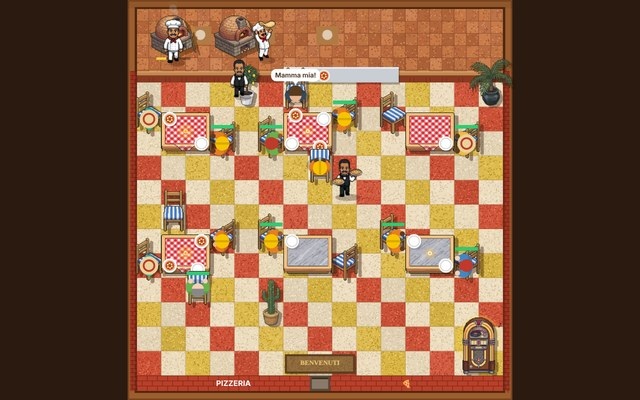
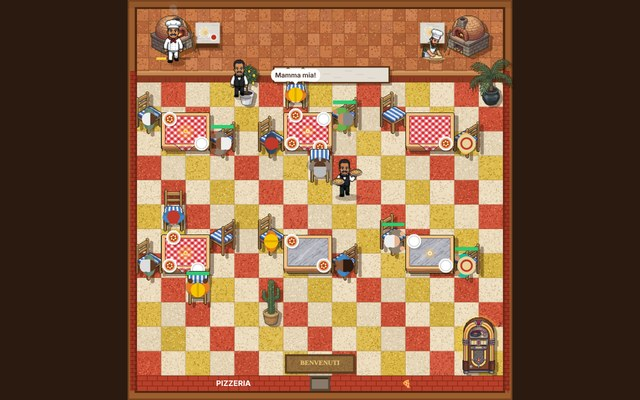
Pizzabaas: keuken met een oven links en rechts, twee verschillende bakkers, marmeren werkbanken en uitgifte
Claude-Session: https://claude.ai/code/session_01A1NZDKEqH4AvFTuhgNYDbP

diff --git a/pizzabaas.html b/pizzabaas.html
@@ -153,7 +153,7 @@ const KLEED = {
 };
 Object.keys(KLEED).forEach((k, i) => KLEED[k].i = i);
 const kleedVan = (s) => (s.kleed === true || s.kleed === 1 ? 'rood' : KLEED[s.kleed] ? s.kleed : null); // oude opslag: kleed = true
-const PERSONEEL = { oven: { n: 'Extra oven', ik: '🔥', prijs: 250, max: 3 }, ober: { n: 'Extra ober', ik: '🤵', prijs: 200, max: 3, loon: true } };
+const PERSONEEL = { oven: { n: 'Extra oven', ik: '🔥', prijs: 250, max: 2 }, ober: { n: 'Extra ober', ik: '🤵', prijs: 200, max: 3, loon: true } };
 
 // ---------- pizza's: ingrediënten en wie wat lekker vindt ----------
 // plaatjes: pizza/ingredienten.png = 20 plaatjes van 64 x 64 naast elkaar (Kenney food-kit, CC0), in de volgorde van ING.
@@ -235,6 +235,7 @@ if (S.versie != 3) { // de zaak is kleiner geworden met grotere tegels: oude spu
   S.geld += S.spullen.reduce((a, s) => a + ({ tafel2: 50, tafel4: 90, plant: 20, jukebox: 150 }[s.t] || 0) + (s.kleed ? 10 : 0) + (s.kaars ? 8 : 0), 0) - 100;
   S.spullen = BEGIN(); S.versie = 3;
 }
+if (S.ovens > 2) { S.geld += (S.ovens - 2) * 250; S.ovens = 2; } // nog maar twee ovens: een links en een rechts (de derde terugbetaald)
 if (!S.menu || !S.menu.length) S.menu = [MARGHERITA()]; // opslag van voor de menukaart
 const bewaar = () => { if (!TEGEL) schrijf(SLEUTEL, S); };
 
@@ -325,11 +326,13 @@ function maakPersoneel() {
   obers = []; for (let i = 0; i < S.obers; i++) obers.push({ x: 7 + i, y: KEUKEN + 0.5, thuis: [7 + i, KEUKEN + 0.5], taak: null, draagt: null });
   ovens = []; for (let i = 0; i < S.ovens; i++) ovens.push(maakOven(i));
 }
-// per oven een kok: die rolt het deeg uit en gooit het op (aan de werkbank naast de oven), schuift de pizza in de oven
-// en zet hem als hij klaar is op het uitgiftepunt (op de toonbank, direct naast de laatste oven), waar een ober hem ophaalt
-const KOK_HUIS = (i) => [1.5 + i * 2.6, 2.1], BANK = (i) => [2.6 + i * 2.6, 2];
-const UITGIFTE = () => [BANK(S.ovens - 1)[0] + 1.4, 2.4]; // waar de kok de pizza neerzet; de pizza's staan daar in een rijtje naar rechts
-function maakOven(i) { const [x, y] = KOK_HUIS(i); return { i, x: 1.5 + i * 2.6, bezig: null, t: 0, fase: 'leeg', kok: { x, y, kijk: Math.PI / 2 } }; }
+// max. twee ovens, elk met een eigen kok: oven 0 links (Mario, de kok), oven 1 rechts (Beppe, de bebaarde bakker). De kok maakt het
+// deeg aan de werkbank naast zijn oven, schuift de pizza in de oven en zet hem als hij klaar is op het uitgiftepunt in het midden
+// van de toonbank, waar een ober hem ophaalt
+const OVEN_X = [1.5, 13.5];
+const KOK_HUIS = (i) => [OVEN_X[i], 2.1], BANK = (i) => [i ? 12.1 : 2.9, 2];
+const UITGIFTE = () => [6.2, 2.4]; // waar de kok de pizza neerzet; de pizza's staan daar in een rijtje naar rechts
+function maakOven(i) { const [x, y] = KOK_HUIS(i); return { i, x: OVEN_X[i], bezig: null, t: 0, fase: 'leeg', kok: { x, y, kijk: Math.PI / 2, i } }; }
 const DEEG = 1.6;
 function stapOven(o, dt) {
   const k = o.kok;
@@ -618,8 +621,16 @@ function tekenAchter() {
     for (let k = 0; k < 14; k++) { a.fillStyle = rnd() < 0.6 ? '#9c5530' : '#d8925f'; a.fillRect(x + Math.floor(rnd() * (d - 2)), y + Math.floor(rnd() * (d - 2)), 2, 2); }
     a.fillStyle = 'rgba(60,25,10,.35)'; a.fillRect(x, y + d - 1, d, 1); a.fillRect(x + d - 1, y, 1, d);
   }
-  // werkbanken met deeg en meel
-  for (let i = 0; i < 3; i++) { const [bx, by] = BANK(i); a.fillStyle = '#b07a45'; a.fillRect((bx - 0.45) * T, (by - 1.3) * T, 0.9 * T, 0.75 * T); a.fillStyle = 'rgba(255,255,255,.6)'; a.beginPath(); a.arc(bx * T, (by - 0.95) * T, 10, 0, 7); a.fill(); }
+  // werkbanken naast de ovens: houten kast met marmeren blad, meel, een deegbal en een kommetje tomatensaus
+  for (let i = 0; i < 2; i++) {
+    const [bx, by] = BANK(i), x0 = (bx - 0.5) * T, y0 = (by - 1.45) * T, w = T, h = 0.85 * T;
+    a.fillStyle = 'rgba(40,15,5,.35)'; a.fillRect(x0 + 5, y0 + 6, w, h + 8);
+    a.fillStyle = '#6b3d1e'; a.fillRect(x0, y0 + h - 4, w, 14); a.fillStyle = '#4e2a12'; a.fillRect(x0 + 4, y0 + h, w - 8, 8); // kastje (voorkant)
+    a.fillStyle = '#ddd8d0'; a.fillRect(x0, y0, w, h); a.fillStyle = '#c6c0b6'; for (let k = 0; k < 6; k++) a.fillRect(x0 + rnd() * w * 0.8, y0 + rnd() * h * 0.9, 8 + rnd() * 10, 1); // marmer
+    a.fillStyle = 'rgba(255,255,255,.75)'; for (let k = 0; k < 40; k++) a.fillRect(x0 + 6 + rnd() * 24, y0 + 8 + rnd() * 20, 2, 2); // meel
+    a.fillStyle = '#f0d9a8'; a.beginPath(); a.arc(x0 + 18, y0 + 18, 8, 0, 7); a.fill(); a.fillStyle = '#e2c48a'; a.beginPath(); a.arc(x0 + 20, y0 + 20, 4, 0, 7); a.fill(); // deegbal
+    a.fillStyle = '#f4f4f4'; a.beginPath(); a.arc(x0 + w - 12, y0 + h - 12, 7, 0, 7); a.fill(); a.fillStyle = '#b8321c'; a.beginPath(); a.arc(x0 + w - 12, y0 + h - 12, 5, 0, 7); a.fill(); // tomatensaus
+  }
   // toonbank: houten blad op bakstenen
   a.fillStyle = '#8b3a22'; a.fillRect(0, KEUKEN * T - 20, WW, 20);
   a.fillStyle = 'rgba(0,0,0,.25)'; for (let x = 0; x < WW; x += 16) a.fillRect(x + ((x / 16) % 2) * 8, KEUKEN * T - 10, 1, 10);
@@ -706,7 +717,7 @@ const SW = 113, SH = 192;
 function figuur(img, p, bijzonder, rug, achter) {
   const v = img.vel, sw = v.sw || SW;
   let f = rug ? v.rug : v.staan, spiegel = false;
-  if (bijzonder) f = v.bijzonder;
+  if (bijzonder) f = Array.isArray(v.bijzonder) ? v.bijzonder[Math.floor((p.gooi || 0) * v.fps) % v.bijzonder.length] : v.bijzonder;
   else if (p.loopT > 0) {
     const c = Math.cos(p.kijk ?? 0), s = Math.sin(p.kijk ?? 0), stap = Math.floor(p.loopT * v.fps);
     if (s < 0 && -s > Math.abs(c)) f = v.rugLoop[stap % v.rugLoop.length]; // weg van de kijker
@@ -731,8 +742,13 @@ function tweedeBord(x, y) { // wit bord met pizza, iets schuin van opzij gezien 
   g.fillStyle = '#c0392b'; for (const [a, b] of [[-10, -3], [6, -4], [12, -2], [-2, -2]]) { g.beginPath(); g.arc(x + a, y + b, 2.5, 0, 7); g.fill(); }
   g.fillStyle = '#3c8d2f'; g.fillRect(x - 6, y - 5, 3, 2); g.fillRect(x + 2, y - 2, 3, 2);
 }
+// de tweede kok: Beppe, de bebaarde bakker (pizza/bakker2.png uit pizza/bakkers2-gemini.jpg): 0 staan, 1-5 lopen (schuin naar rechts),
+// 6-10 deeg kneden (een animatie). Plaatjes van achteren zijn er niet: dan staat hij gewoon van voren
+const BAKKER2 = new Image(); BAKKER2.src = 'pizza/bakker2.png';
+BAKKER2.vel = { staan: 0, opzij: [1, 2, 3, 4, 5], rechts: true, bijzonder: [6, 7, 8, 9, 10], rug: 0, rugLoop: [1, 2, 3, 4, 5], fps: 8 };
 function kokPlaatje(k, nu) {
-  const h = figuur(KOK, k, k.gooi > 0, !k.loopT && (k.y < 1.9));
+  const img = k.i && BAKKER2.complete && BAKKER2.naturalWidth ? BAKKER2 : KOK;
+  const h = figuur(img, k, k.gooi > 0, !k.loopT && (k.y < 1.9));
   if (k.draagt) { g.fillStyle = '#ddd'; g.beginPath(); g.arc(0, -h * 0.42, 13, 0, 7); g.fill(); pizza(0, -h * 0.42, 10); }
 }
 function kok(k, nu) {
@@ -773,7 +789,9 @@ function teken(nu) {
     if (OVENS.complete && OVENS.naturalWidth) { // Gemini-oven: 0 uit, 1 met vuur (bakken), 2 pizza op de schep (inschuiven)
       const w = 1.9 * T, x0 = o.x * T - w / 2, y0 = 1.95 * T - w, f = o.fase == 'bak' ? 1 : o.fase == 'inschuiven' ? 2 : 0;
       if (f == 1) { g.fillStyle = `rgba(255,150,40,${0.18 + Math.sin(nu / 90) * 0.06})`; g.beginPath(); g.arc(x0 + w * 0.6, y0 + w * 0.6, w * 0.42, 0, 7); g.fill(); }
-      metSchaduw(OVENS, f * 150, 0, 150, 150, x0, y0, w, w);
+      if (o.i) { g.save(); g.translate(2 * o.x * T, 0); g.scale(-1, 1); } // de rechter oven gespiegeld (opening naar het midden)
+      metSchaduw(OVENS, f * 150, 0, 150, 150, x0, y0, w, w, o.i ? -8 : 8);
+      if (o.i) g.restore();
       if (f == 1) {
         g.fillStyle = 'rgba(0,0,0,.35)'; g.fillRect(x0 + 12, y0 + w + 1, w - 24, 5); g.fillStyle = '#ffd23f'; g.fillRect(x0 + 12, y0 + w + 1, (w - 24) * Math.min(1, o.t / (BAKTIJD - DEEG)), 5); // hoe lang nog
         for (let k = 0; k < 3; k++) { const fr = ((nu / 900 + k / 3) % 1); g.fillStyle = `rgba(200,200,200,${0.45 * (1 - fr)})`; g.beginPath(); g.arc(x0 + w * 0.52 + Math.sin(fr * 6 + k) * 4, y0 + w * 0.1 - fr * 22, 4 + fr * 6, 0, 7); g.fill(); }
@@ -792,8 +810,9 @@ function teken(nu) {
   }
   // het uitgiftepunt naast de ovens: een belletje, en de pizza's die klaarstaan in een rijtje op de toonbank
   const [ux] = UITGIFTE(), ty = KEUKEN * T - 13;
-  g.fillStyle = 'rgba(0,0,0,.3)'; g.fillRect(ux * T - 26, ty - 14, 4 * T + 34, 31); // stalen uitgifteplaat
-  g.fillStyle = '#c9ced4'; g.fillRect(ux * T - 28, ty - 17, 4 * T + 34, 30); g.fillStyle = '#e9edf1'; g.fillRect(ux * T - 28, ty - 17, 4 * T + 34, 3);
+  g.fillStyle = 'rgba(40,15,5,.35)'; g.fillRect(ux * T - 22, ty - 12, 4 * T + 34, 31); // marmeren uitgifteblad met houten rand
+  g.fillStyle = '#5a3216'; g.fillRect(ux * T - 30, ty - 19, 4 * T + 38, 34);
+  g.fillStyle = '#e4ded4'; g.fillRect(ux * T - 27, ty - 16, 4 * T + 32, 28); g.fillStyle = 'rgba(160,150,140,.35)'; for (let k = 0; k < 9; k++) g.fillRect(ux * T - 20 + k * 22, ty - 12 + (k * 7) % 20, 14, 1);
   g.fillStyle = 'rgba(0,0,0,.25)'; g.beginPath(); g.ellipse(ux * T - 12, ty + 4, 11, 5, 0, 0, 7); g.fill(); // belletje
   g.fillStyle = '#d4a017'; g.beginPath(); g.arc(ux * T - 14, ty + 2, 10, Math.PI, 0); g.fill(); g.fillStyle = '#a77d0c'; g.fillRect(ux * T - 26, ty + 1, 24, 4);
   g.fillStyle = '#fff3b0'; g.beginPath(); g.arc(ux * T - 17, ty - 3, 3, 0, 7); g.fill(); g.fillStyle = '#a77d0c'; g.beginPath(); g.arc(ux * T - 14, ty - 9, 2.5, 0, 7); g.fill();
@@ -896,7 +915,7 @@ function schaduwVel(img) {
 }
 function metSchaduw(img, sx, sy, sw, sh, dx, dy, dw, dh, af = 8) { // af = hoe ver de schaduw valt (in de huidige eenheden)
   const sch = schaduwVel(img); if (!sch) return;
-  g.drawImage(sch, sx, sy, sw, sh, dx + af, dy + af * 0.7, dw, dh);
+  g.drawImage(sch, sx, sy, sw, sh, dx + af, dy + Math.abs(af) * 0.7, dw, dh); // af < 0 in een gespiegeld stuk
   g.drawImage(img, sx, sy, sw, sh, dx, dy, dw, dh);
 }
 const TAFELS = new Image(); TAFELS.src = 'pizza/tafels.png';

diff --git a/pizza/CLAUDE.md b/pizza/CLAUDE.md
@@ -19,8 +19,8 @@ klanten komen. Aan het eind huur (`HUUR`) en loon, en een dagoverzicht (📊 Gis
 achtergrond vooraf getekend (`achter`, `tekenAchter`: vloer naar keuze `S.vloer` (`VLOER`; tik in het inrichten op een leeg stuk vloer = `toonVloer`): zelf getekend rood-geel of rood-crème met spikkels, of herhaald plaatje uit `pizza/vloeren.png` (terracotta, kasseien, hout; uit `pizza/vloeren-gemini.jpg`, 288x288 = 6x6 tegels), keuken met kleine terracotta tegeltjes, toonbank, bakstenen muur met deur, deurmat BENVENUTI (`MAT`, daar mag niets staan; `repareer` verplaatst spullen die in oude opslag niet meer passen)), bakstenen muren links en rechts, houten kader
 (`RAND`); meubels en ovens met een schaduw naar rechtsonder (`metSchaduw`, schaduwvel per plaatje via `schaduwVel`), figuren met een schaduw onder de voeten; kassageluid = la, belletje en muntjes (`kassa`, `klak`, `toon`), stoelen uit `pizza/stoelen.png` (`STOELEN`, `gemStoel`, uit `pizza/stoelen2-gemini.jpg`: 0 leuning boven = stoel boven de tafel, 1 van achteren = onder de tafel (na de tafel getekend), 2 leuning links, 3 leuning rechts; `stoel` = oude getekende stoel als het plaatje niet laadt), planten uit `pizza/planten.png` (`PLANTEN`, soort `s.v`: 0 plantje, 1 palm, 2 citroenboompje, 3 cactus; nieuwe planten om de beurt, wisselen met 🔄 in het menu), jukebox recht van voren uit `pizza/jukebox.png` (`JUKEBOX`, uit `pizza/jukebox-gemini.jpg`), tafels uit `pizza/tafels.png` (`TAFELS`, Gemini, onderste rij van `pizza/tafels-gemini.jpg`: 0 marmer, 1 rood-wit geruit = met kleedje, 2 wit kleed met kaars, 3 wit met kaars en wijnfles; 2-3 nog niet gebruikt, bedoeld voor meubelstijlen; het kaarsje tekent het spel zelf), borden (`bord`), poppetjes van bovenaf met kijkrichting (`poppetje`, `kijk`).
 Paneel rechts (liggend) of onder (staand): zwart schermpje `#lcd` (`balk`) en een 3x3 knoppenraster `#raster` (`tekenKnoppen`).
-Ovens uit `pizza/ovens.png` (`OVENS`, Gemini: 0 uit (van de oven met vuur, vuur weggepoetst), 1 met vuur = bakken, 2 pizza op de schep = inschuiven). Per oven een kok (`maakOven`, `stapOven`): deeg opgooien aan de werkbank (`BANK`, `DEEG`), inschuiven, bakken, op het uitgiftepunt zetten
-(`UITGIFTE`: stalen plaat met belletje op de toonbank, direct rechts van de laatste werkbank), daar haalt een ober hem op. Kok en ober zijn eigen Gemini-ontwerpen, plaatjes van 113x192 naast elkaar; welk plaatje wat is staat per vel in `KOK.vel` / `OBER.vel` (`figuur`). `pizza/kok.png` (15): 0-1 staan, 2-8 loopcyclus opzij met de neus naar rechts (gespiegeld = links; ook gebruikt voor lopen naar voren, want die cyclus is er nog niet), 9 deeg opgooien (van het oude vel, broek wit gemaakt), 10 op de rug, 11-14 lopen naar achteren; uit `pizza/kok2-gemini.jpg` (witte broek) + `pizza/kok-gemini.jpg`. `pizza/ober.png`: zelfde indeling, 9 = stolp optillen bij het opdienen (`serveer`); uit `pizza/ober2-gemini.jpg` + de stolp van `pizza/ober-gemini.jpg`. Sta- en rugplaatjes zijn verkleind tot de hoogte van de loopplaatjes (Gemini tekent die rijen niet even groot). Met borden: `pizza/ober-borden.png` (`OBER_BORD`, vakjes van 180 breed, uit `pizza/ober-borden-gemini.jpg`): 0 staan van voren, 1-7 lopen opzij, 8-11 lopen naar achteren, steeds één bord rechts; 12-19 met twee borden (uit `pizza/ober-borden2-gemini.jpg`: 12 staan, 13-19 opzij, maar 14/16/17 missen een bord en worden overgeslagen: `OBER_TWEE`); van achteren met twee borden tekent `tweedeBord` het tweede. Uitknippen met `extra/knip_figuren.py` (raken figuren elkaar, zoals bij de borden: per losse vorm knippen). Opslag per speler in `pizzabaas:<naam>`. `#tegel` = plaatje.
+Ovens uit `pizza/ovens.png` (`OVENS`, Gemini: 0 uit (van de oven met vuur, vuur weggepoetst), 1 met vuur = bakken, 2 pizza op de schep = inschuiven). Max. 2 ovens (`OVEN_X`: links en rechts, de rechter gespiegeld; opslag met meer ovens krijgt geld terug), per oven een kok (`maakOven`, `stapOven`): 0 = Mario (`KOK`), 1 = Beppe, de bebaarde bakker (`BAKKER2`, `pizza/bakker2.png` uit `pizza/bakkers2-gemini.jpg`: 0 staan, 1-5 lopen, 6-10 deeg kneden; `vel.bijzonder` mag een lijst zijn = animatie). Deeg maken aan de werkbank naast de oven (`BANK`, marmer op een houten kastje, `DEEG`), inschuiven, bakken, op het uitgiftepunt zetten
+(`UITGIFTE`: marmeren blad met belletje midden op de toonbank), daar haalt een ober hem op. Kok en ober zijn eigen Gemini-ontwerpen, plaatjes van 113x192 naast elkaar; welk plaatje wat is staat per vel in `KOK.vel` / `OBER.vel` (`figuur`). `pizza/kok.png` (15): 0-1 staan, 2-8 loopcyclus opzij met de neus naar rechts (gespiegeld = links; ook gebruikt voor lopen naar voren, want die cyclus is er nog niet), 9 deeg opgooien (van het oude vel, broek wit gemaakt), 10 op de rug, 11-14 lopen naar achteren; uit `pizza/kok2-gemini.jpg` (witte broek) + `pizza/kok-gemini.jpg`. `pizza/ober.png`: zelfde indeling, 9 = stolp optillen bij het opdienen (`serveer`); uit `pizza/ober2-gemini.jpg` + de stolp van `pizza/ober-gemini.jpg`. Sta- en rugplaatjes zijn verkleind tot de hoogte van de loopplaatjes (Gemini tekent die rijen niet even groot). Met borden: `pizza/ober-borden.png` (`OBER_BORD`, vakjes van 180 breed, uit `pizza/ober-borden-gemini.jpg`): 0 staan van voren, 1-7 lopen opzij, 8-11 lopen naar achteren, steeds één bord rechts; 12-19 met twee borden (uit `pizza/ober-borden2-gemini.jpg`: 12 staan, 13-19 opzij, maar 14/16/17 missen een bord en worden overgeslagen: `OBER_TWEE`); van achteren met twee borden tekent `tweedeBord` het tweede. Uitknippen met `extra/knip_figuren.py` (raken figuren elkaar, zoals bij de borden: per losse vorm knippen). Opslag per speler in `pizzabaas:<naam>`. `#tegel` = plaatje.
 Pizza's (📖, `toonKaart`, `toonMaak`): `S.menu` = lijst { naam, prijs, stukjes: [{ i, x, y, r }] } (max `MAXMENU`; oude opslag krijgt een
 Margherita). Ingrediënten in `ING` (smaak `f` = [vet, zoet, zout, pittig] per stukje, inkoop `k`, soort `s`: it/groen/vlees/vis/gek) met
 plaatjes uit `pizza/ingredienten.png` (20 x 64x64 uit de Kenney food-kit, volgorde van `ING`). Soorten klanten in `SOORT` (wil, budget,

diff --git a/pizza/PLAN.md b/pizza/PLAN.md
@@ -54,6 +54,8 @@ Gedaan (25 okt): de ober (en de klanten) lopen om de tafels heen in plaats van e
   Meerdere tafels: klein (2), vierkant (4), lang (6 stoelen eromheen), zoals in het origineel. De fontein moest je in het
   origineel kopen (als versiering).
 - Keuken: max. 2 pizzabakkers, die er **verschillend** uitzien; een oven links en een rechts (ander pand: rechtsboven/-onder).
+  **Gedaan (25 okt)**: Mario links, Beppe (bebaarde bakker) rechts, marmeren werkbanken en uitgifte. Nieuwe vellen bewaard:
+  `pizza/stoelen5-gemini.jpg` (stoel met rood kussen in 4 richtingen = houten stijl!), `pizza/houten-tafels3-gemini.jpg`.
 - Ingang: deurmat bij de deur waar je niets neer kunt zetten; iets meer bij de ingang (kapstok, lessenaar).
 - Warmer en voller: andere vloer (origineel: kleinere, gevlekte tegels of grijze kasseien), schaduwen, bakstenen muren,
   wijnrek en kasten tegen de muur, lampen.
